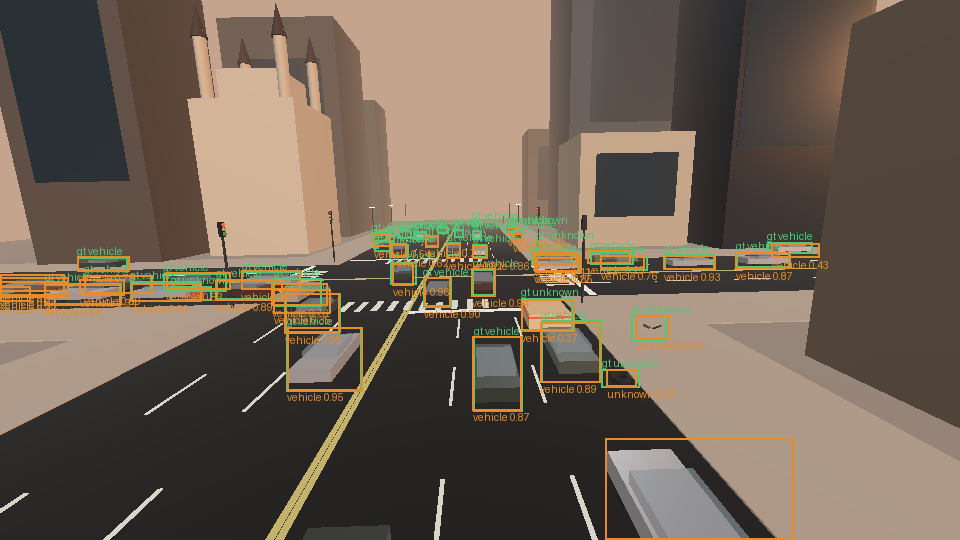
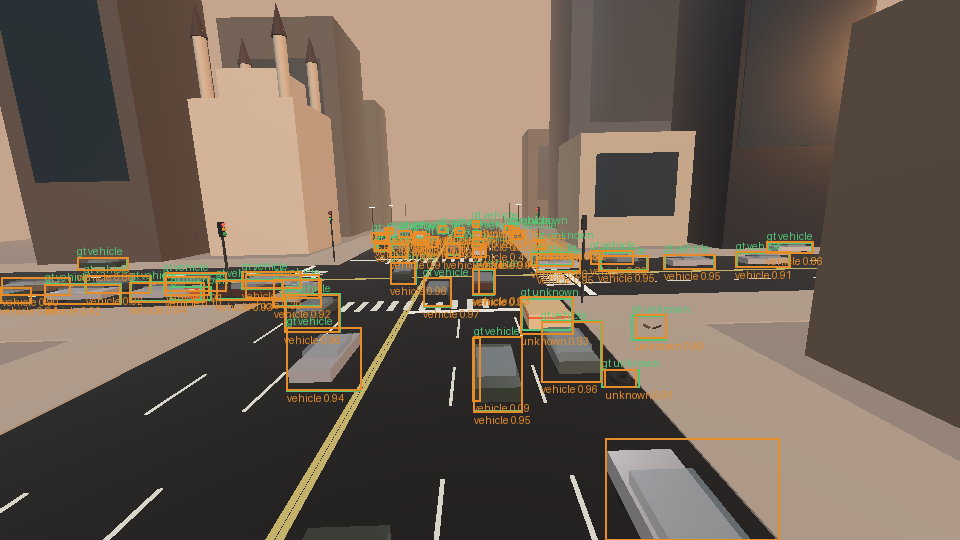
Score stage-2 detections against the closed-loop lane contract.
Tiled debris recall on the held-out clips is 0.62. Tailgating requires 3 m/s inside a wider band so queued east-west cars stay quiet and noisy southbound tracks still match.

diff --git a/edge/tests/test_tailgate.py b/edge/tests/test_tailgate.py
@@ -109,6 +109,27 @@ def test_settled_speed_still_flags_after_the_window():
     assert events[0].lane == "mich-sb-0"
 
 
+def test_noisy_southbound_speed_flags_and_a_creep_stays_queued():
+    # Detector path: distant southbound speed chatters inside a wide band and
+    # still flags. A queued eastbound pair creeping under 3 m/s does not.
+    moving = TailgateDetector(
+        settle_s=0.4, speed_band_mps=6.0, min_speed_mps=3.0, persist_s=0.5, gap_s=0.45
+    )
+    queued = TailgateDetector(
+        settle_s=0.4, speed_band_mps=6.0, min_speed_mps=3.0, persist_s=0.5, gap_s=0.45
+    )
+    moving_events = []
+    queued_events = []
+    for i in range(12):
+        fast = 6.0 if i % 2 == 0 else 11.0
+        creep = 1.5 if i % 2 == 0 else 2.6
+        moving_events.extend(moving.update(i * 0.1, _pair("mich-sb-2", gap_m=12.0, speed=fast)))
+        queued_events.extend(queued.update(i * 0.1, _pair("chi-eb-0", gap_m=1.0, speed=creep)))
+    assert moving_events
+    assert moving_events[0].lane == "mich-sb-2"
+    assert queued_events == []
+
+
 def test_a_one_frame_gap_keeps_the_tailgate_timer():
     held = TailgateDetector(persist_s=0.5, gap_s=0.25)
     dropped = TailgateDetector(persist_s=0.5, gap_s=0.0)

diff --git a/edge/detector/compare.py b/edge/detector/compare.py
@@ -183,7 +183,22 @@ def main() -> int:
         if missing:
             raise SystemExit(f"missing image {missing[0]}")
         gt_tail.extend(detect_tailgates(frames))
-        gt_lanes.extend(collect_lane_states(frames))
+        # Score lanes against the closed-loop contract (debris closes a lane;
+        # a stopped vehicle stays slow). The detector may also fuse a debris
+        # hit with a slowdown. The label pipeline below does not.
+        gt_lanes.extend(
+            collect_lane_states(
+                frames,
+                monitor=LaneMonitor(
+                    block_classes=tuple(lane_cfg.get("block_classes", ["unknown"])),
+                    vehicle_stall_hold_s=(
+                        None
+                        if lane_cfg.get("vehicle_stall_hold_s") is None
+                        else float(lane_cfg["vehicle_stall_hold_s"])
+                    ),
+                ),
+            )
+        )
         if images:
             detector.detect(str(images[0]))
         batches = []

diff --git a/edge/tests/test_detector_adapter.py b/edge/tests/test_detector_adapter.py
@@ -179,8 +179,9 @@ def test_moving_pair_flags_tailgating_from_detections():
     for i in range(8):
         # Leader drifts north (negative image v is north? image down is south
         # for this nadir yaw-0 camera: +v is +south). Move both north together.
-        lead = DetBox("vehicle", 0.92, 310.0, 200.0 - i * 4.0, 20.0, 20.0)
-        follow = DetBox("vehicle", 0.88, 310.0, 250.0 - i * 4.0, 20.0, 20.0)
+        # 8 px / 0.2 s is about 4 m/s here, above the detector's 3 m/s floor.
+        lead = DetBox("vehicle", 0.92, 310.0, 200.0 - i * 8.0, 20.0, 20.0)
+        follow = DetBox("vehicle", 0.88, 310.0, 250.0 - i * 8.0, 20.0, 20.0)
         script.append([lead, follow])
     run = run_detector_pipeline(frames, [None] * len(frames), _Scripted(script))
     assert any(event.cls == "vehicle" for event in run.events)

diff --git a/edge/src/horizon_vision/events/detect.py b/edge/src/horizon_vision/events/detect.py
@@ -149,7 +149,9 @@ def run_detector_pipeline(
             block_classes=("unknown",),
         )
     if tailgate is None:
-        tailgate = TailgateDetector(settle_s=0.4, speed_band_mps=2.5, gap_s=0.45)
+        tailgate = TailgateDetector(
+            settle_s=0.4, speed_band_mps=6.0, gap_s=0.45, min_speed_mps=3.0
+        )
     events: list[EdgeEvent] = []
     per_frame: list[list[TrackedBox]] = []
     detections = 0

diff --git a/docs/edge-events.md b/docs/edge-events.md
@@ -290,13 +290,15 @@ overlapping tiles (`detect.tile_w` / `tile_h`) and merges them.
 
 Thresholds for the detector path live in that same file: ByteTrack's
 `match_px` and `max_misses` for distant cars, `unknown_high_conf` so a weak
-debris box can start a track, `tailgate.settle_s` so a queued car with a
-spiky tracked speed is not tailgating, and `lane.debris_fuse` so a debris
-hit plus slow traffic stays `blocked` after the box flickers. That path
-uses `block_classes: [unknown]`, the same closure as the closed loop, so a
-queued vehicle stays `slow` unless `vehicle_stall_hold_s` is set. The label
-path leaves `settle_s` at 0 and `debris_fuse` off, and still lets a stopped
-vehicle close a lane.
+debris box can start a track, `tailgate.min_speed_mps` (3 m/s) so a queued
+car whose tracked speed creeps at 1–2 m/s is not tailgating, and a wider
+`speed_band_mps` so a distant southbound car can still flag when that speed
+chatters. `lane.debris_fuse` keeps a lane `blocked` after a debris box
+flickers. That path uses `block_classes: [unknown]`, the same closure as
+the closed loop, so a queued vehicle stays `slow` unless
+`vehicle_stall_hold_s` is set. The label path leaves `settle_s` at 0 and
+`debris_fuse` off, and still lets a stopped vehicle close a lane. Compare
+scores lane state against that closed-loop closure.
 
 `data/yolo/` and the checkpoints are gitignored.
 `edge/detector/sample/` is a two-frame excerpt.
